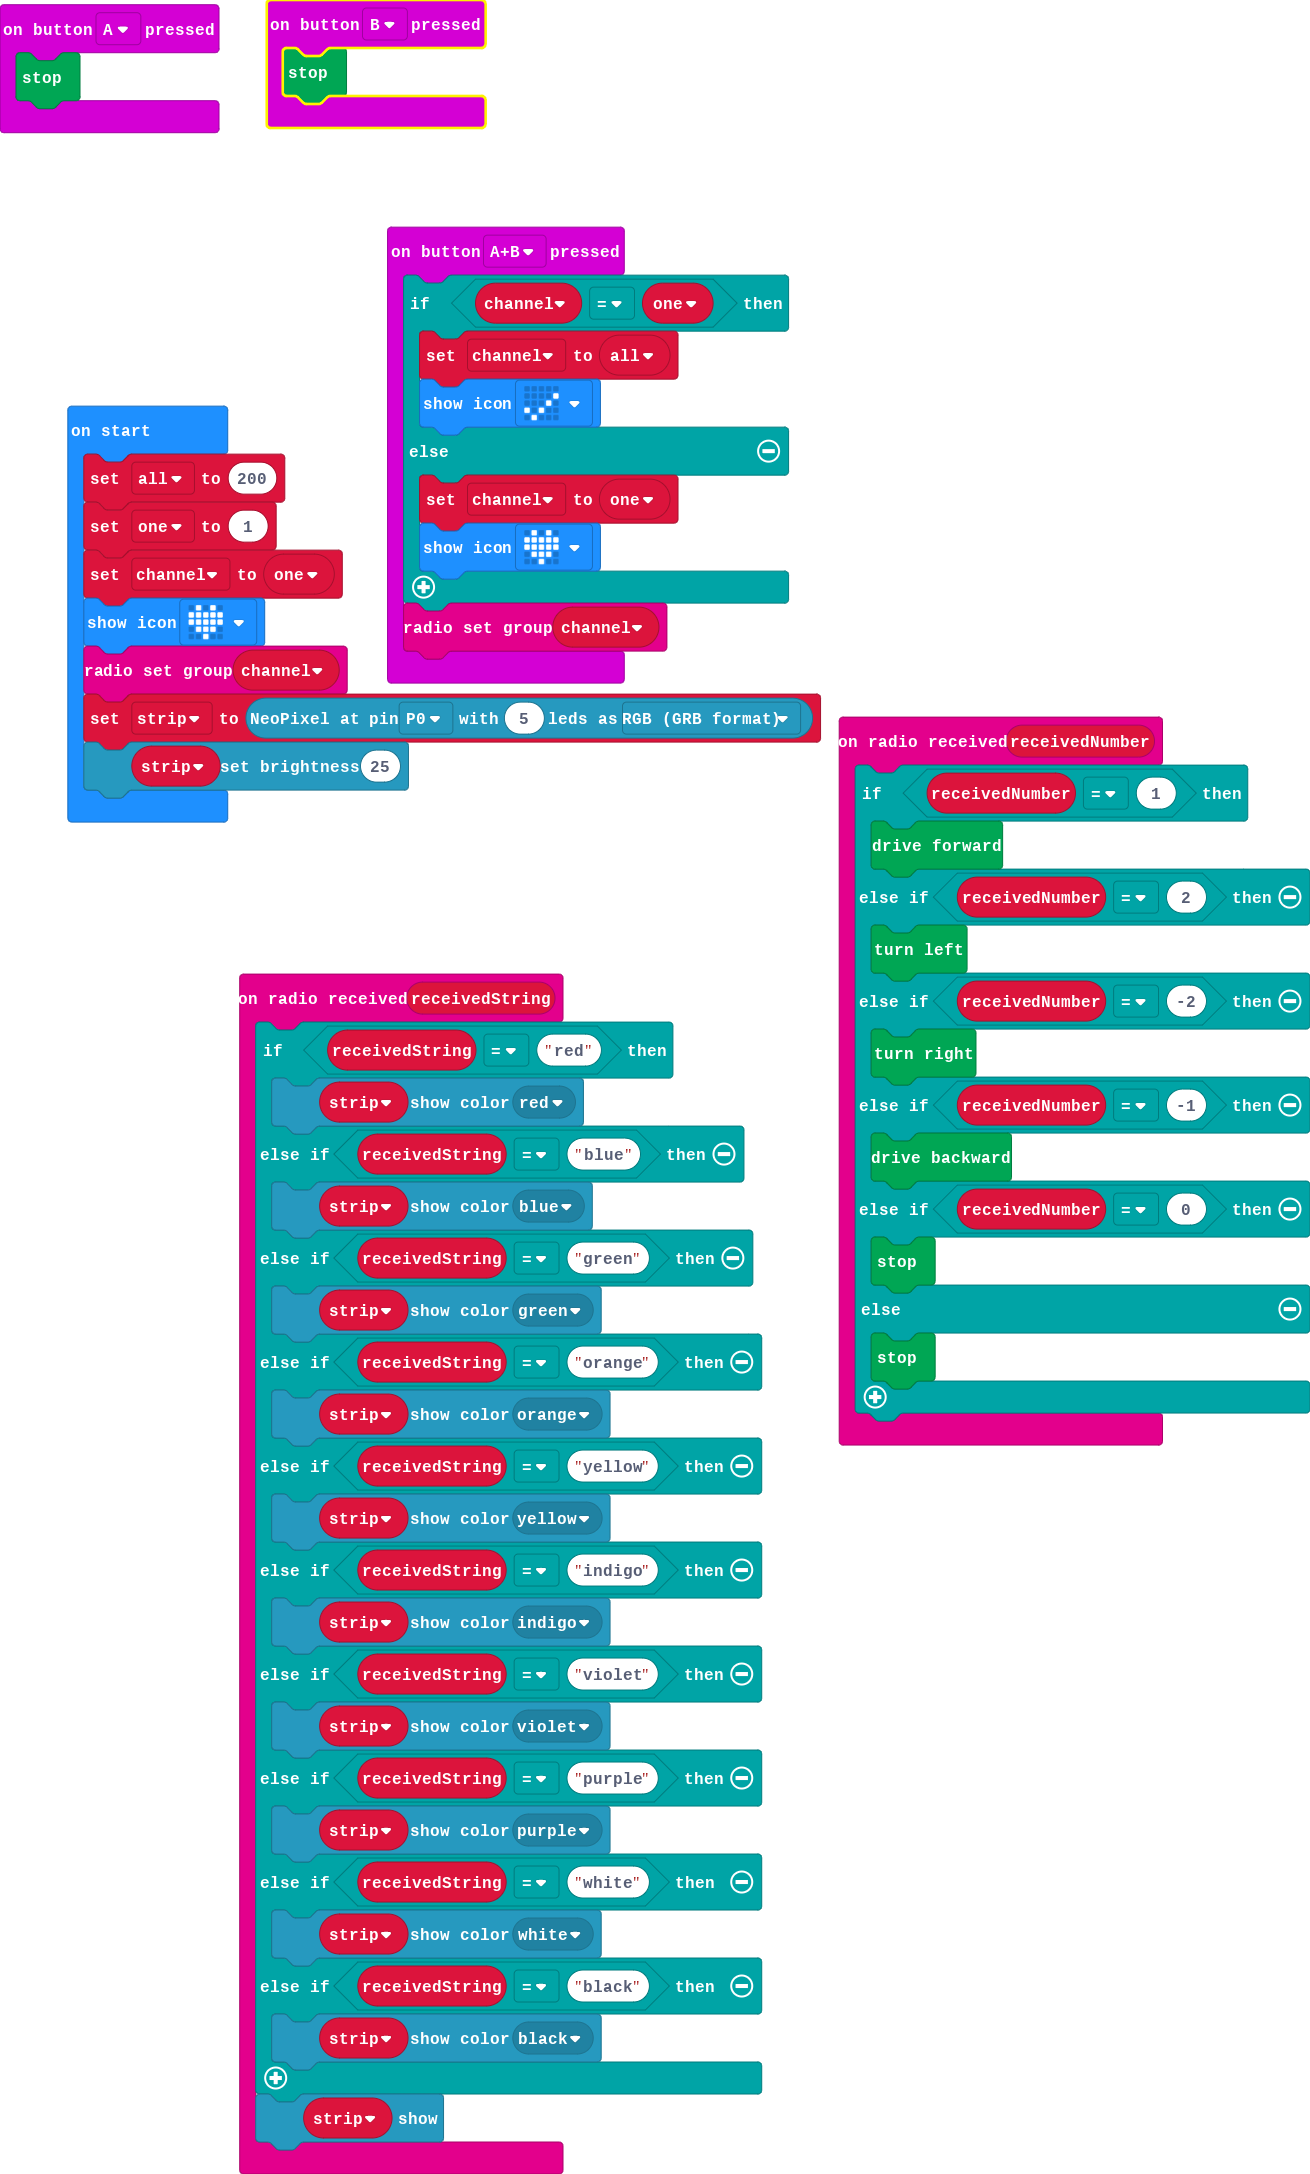
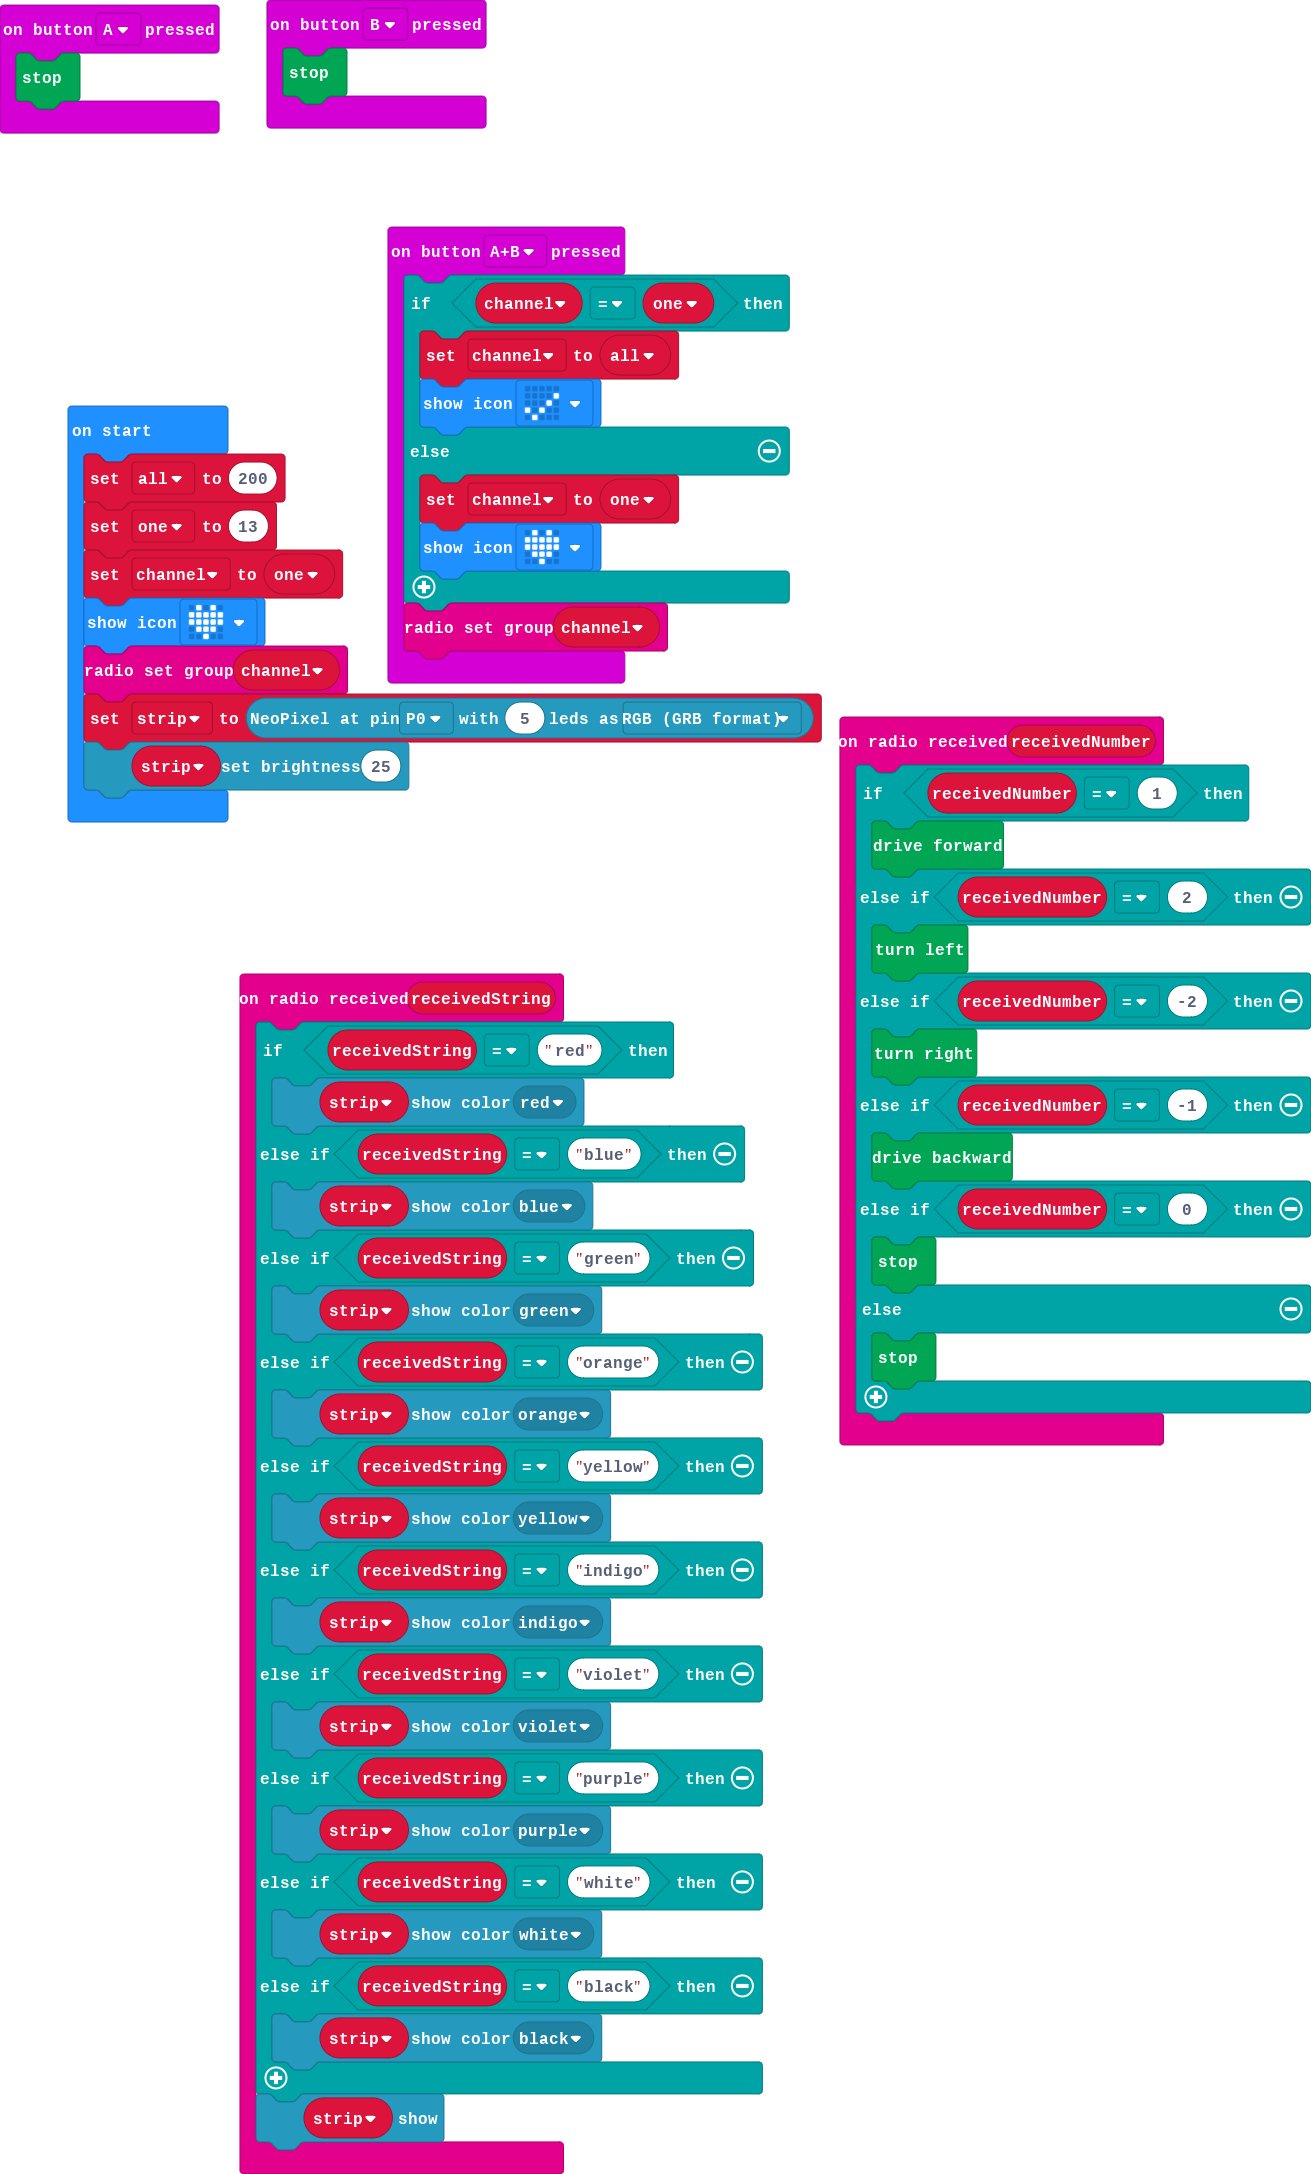
Update main.blocks, main.ts

diff --git a/main.ts b/main.ts
@@ -58,7 +58,7 @@ let channel = 0
 let one = 0
 let all = 0
 all = 200
-one = 1
+one = 13
 channel = one
 basic.showIcon(IconNames.Heart)
 radio.setGroup(channel)
